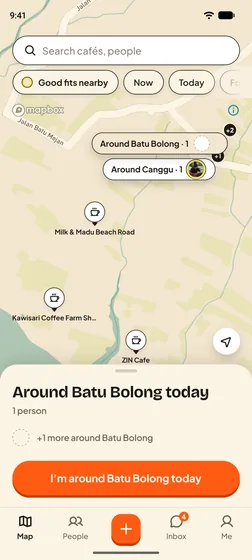
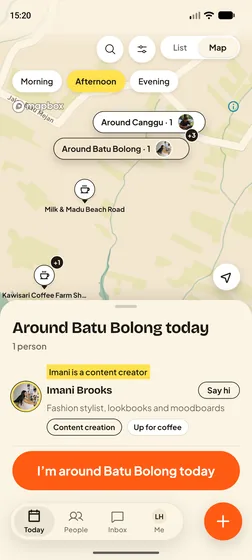
How it works and Our promise: the 1.6 pictures, asks and table-chat (the words file's section 7)
Shot again on 21 November 2026 from app main 5ec6e466 (app.kerja.site16) on the local stack, the same way
as Home's: profile-photo, profile-about, people, cafe-map, cafe-sheet, host-session, chat and privacy, and
two new ones, asks (chapter 2, beside people) and table-chat (chapter 4, beside host-session), each chapter's
pictures in the chapters' own .devices markup. Each alt says what its picture shows:
- profile-photo: Nico Albers on 44b's face chapter, with "Developer, 5 to 10 years" and "LinkedIn linked"
  (in 1.6 both lines are on the face chapter only: Q1561, with the auditor);
- profile-about: what Nico needs, can help with and is open to;
- people: For you, Freya, Imani and Amira, a reason each; asks: two sample asks this week;
- cafe-map: people around Canggu and Batu Bolong, Imani Brooks in the Around Batu Bolong today sheet;
- cafe-sheet: a made-up café (Kopi Pelan), "3 members love working here", no tables today, Work here;
- host-session: the work session / meeting / event choice (the last two with Plus) at the made-up café;
- table-chat: the made-up Pagi Room's 9:00 table, Kerja's welcome and a message from each seat;
- chat: Daria Novak, connected via Coffee, "Read 15:04" under the last message (Q1548);
- privacy: the Privacy settings (Our promise shows the same picture; its alt is unchanged).
No real café is named in page text or alts. Restamped.

diff --git a/id/how-it-works/index.html b/id/how-it-works/index.html
@@ -87,8 +87,8 @@
   <section class="chapter" id="profile" aria-labelledby="ch-1">
     <figure class="ch-shots shot">
       <div class="devices">
-        <div class="device"><img src="../../assets/screens/profile-photo-2x.webp?v=e806f21d" srcset="../../assets/screens/profile-photo-1x.webp?v=b22ab8c7 1x, ../../assets/screens/profile-photo-2x.webp?v=e806f21d 2x, ../../assets/screens/profile-photo-3x.webp?v=e0bb4342 3x" width="252" height="560" alt="Contoh layar: profil Nico Albers, dengan foto Nico, apa yang sedang Nico bangun, satu baris tentang apa yang Nico cari, “Around Canggu today” dan tombol “Connect”" fetchpriority="high"></div>
-        <div class="device"><img src="../../assets/screens/profile-about-2x.webp?v=13a6d7d0" srcset="../../assets/screens/profile-about-1x.webp?v=ee7d0f39 1x, ../../assets/screens/profile-about-2x.webp?v=13a6d7d0 2x, ../../assets/screens/profile-about-3x.webp?v=0bea0ef3 3x" width="252" height="560" alt="Contoh layar: profil Nico Albers, dengan apa yang Nico butuhkan, apa yang bisa Nico bantu, dan Nico terbuka untuk apa saja" loading="lazy" decoding="async"></div>
+        <div class="device"><img src="../../assets/screens/profile-photo-2x.webp?v=701722eb" srcset="../../assets/screens/profile-photo-1x.webp?v=27a34a1c 1x, ../../assets/screens/profile-photo-2x.webp?v=701722eb 2x, ../../assets/screens/profile-photo-3x.webp?v=63453ac5 3x" width="252" height="560" alt="Contoh layar: profil Nico Albers, dengan foto Nico, apa yang sedang Nico bangun, “Developer, 5 to 10 years”, “LinkedIn linked”, satu baris tentang apa yang Nico cari, “Around Canggu today” dan tombol “Message”" fetchpriority="high"></div>
+        <div class="device"><img src="../../assets/screens/profile-about-2x.webp?v=6af7f4ca" srcset="../../assets/screens/profile-about-1x.webp?v=0e0ba2a3 1x, ../../assets/screens/profile-about-2x.webp?v=6af7f4ca 2x, ../../assets/screens/profile-about-3x.webp?v=3b0393af 3x" width="252" height="560" alt="Contoh layar: profil Nico Albers, dengan apa yang Nico butuhkan, apa yang bisa Nico bantu, dan Nico terbuka untuk apa saja" loading="lazy" decoding="async"></div>
       </div>
       <figcaption class="caption">Contoh profil</figcaption>
     </figure>
@@ -117,7 +117,10 @@
 
   <section class="chapter flip" id="people" aria-labelledby="ch-2">
     <figure class="ch-shots shot">
-      <div class="device"><img src="../../assets/screens/people-2x.webp?v=551b95eb" srcset="../../assets/screens/people-1x.webp?v=4584395f 1x, ../../assets/screens/people-2x.webp?v=551b95eb 2x, ../../assets/screens/people-3x.webp?v=4a6dec12 3x" width="252" height="560" alt="Contoh layar: “People”, “For you”, dengan tiga orang untuk ditemui hari ini dan satu alasan untuk masing-masing" loading="lazy" decoding="async"></div>
+      <div class="devices">
+        <div class="device"><img src="../../assets/screens/people-2x.webp?v=dcc0b80d" srcset="../../assets/screens/people-1x.webp?v=3ad00156 1x, ../../assets/screens/people-2x.webp?v=dcc0b80d 2x, ../../assets/screens/people-3x.webp?v=ca9b4b12 3x" width="252" height="560" alt="Contoh layar: “People”, “For you”, dengan tiga orang untuk ditemui hari ini dan satu alasan untuk masing-masing" loading="lazy" decoding="async"></div>
+        <div class="device"><img src="../../assets/screens/asks-2x.webp?v=35acba32" srcset="../../assets/screens/asks-1x.webp?v=fe81c666 1x, ../../assets/screens/asks-2x.webp?v=35acba32 2x, ../../assets/screens/asks-3x.webp?v=1bd48cfd 3x" width="252" height="560" alt="Contoh layar: “People”, “Asks”, dengan dua contoh permintaan bantuan minggu ini, masing-masing dengan “Say hi”" loading="lazy" decoding="async"></div>
+      </div>
       <figcaption class="caption">Contoh profil</figcaption>
     </figure>
     <div class="ch-text">
@@ -141,8 +144,8 @@
   <section class="chapter" id="cafes" aria-labelledby="ch-3">
     <figure class="ch-shots shot">
       <div class="devices">
-        <div class="device"><img src="../../assets/screens/cafe-map-2x.webp?v=198c21d6" srcset="../../assets/screens/cafe-map-1x.webp?v=c7f9d540 1x, ../../assets/screens/cafe-map-2x.webp?v=198c21d6 2x, ../../assets/screens/cafe-map-3x.webp?v=0d9156fc 3x" width="252" height="560" alt="Contoh layar: peta Kerja dengan pin kafe, orang-orang di sekitar Batu Bolong dan Canggu hari ini, dan panel “Around Batu Bolong today”, tempat satu orang hanya tampil sebagai “+1 more”" loading="lazy" decoding="async"></div>
-        <div class="device"><img src="../../assets/screens/cafe-sheet-2x.webp?v=a88ccfa5" srcset="../../assets/screens/cafe-sheet-1x.webp?v=40f94023 1x, ../../assets/screens/cafe-sheet-2x.webp?v=a88ccfa5 2x, ../../assets/screens/cafe-sheet-3x.webp?v=ac915fa9 3x" width="252" height="560" alt="Contoh layar: panel sebuah kafe di peta, dengan areanya, jam buka hari ini, belum ada yang kerja di sana saat ini, dan “Work here”" loading="lazy" decoding="async"></div>
+        <div class="device"><img src="../../assets/screens/cafe-map-2x.webp?v=83c0ee00" srcset="../../assets/screens/cafe-map-1x.webp?v=dec8d713 1x, ../../assets/screens/cafe-map-2x.webp?v=83c0ee00 2x, ../../assets/screens/cafe-map-3x.webp?v=75810e61 3x" width="252" height="560" alt="Contoh layar: peta Kerja dengan pin kafe, orang-orang di sekitar Canggu dan Batu Bolong hari ini, dan Imani Brooks di panel “Around Batu Bolong today”" loading="lazy" decoding="async"></div>
+        <div class="device"><img src="../../assets/screens/cafe-sheet-2x.webp?v=e23124cb" srcset="../../assets/screens/cafe-sheet-1x.webp?v=6daa5b73 1x, ../../assets/screens/cafe-sheet-2x.webp?v=e23124cb 2x, ../../assets/screens/cafe-sheet-3x.webp?v=fe462ec2 3x" width="252" height="560" alt="Contoh layar: panel sebuah contoh kafe di peta, dengan areanya, buka 24 jam, “3 members love working here”, belum ada meja di sana hari ini, dan “Work here”" loading="lazy" decoding="async"></div>
       </div>
       <figcaption class="caption">Contoh profil dan sesi</figcaption>
     </figure>
@@ -167,7 +170,10 @@
 
   <section class="chapter flip" id="sessions" aria-labelledby="ch-4">
     <figure class="ch-shots shot">
-      <div class="device"><img src="../../assets/screens/host-session-2x.webp?v=1d77fb2d" srcset="../../assets/screens/host-session-1x.webp?v=9b39560d 1x, ../../assets/screens/host-session-2x.webp?v=1d77fb2d 2x, ../../assets/screens/host-session-3x.webp?v=9aad97fd 3x" width="252" height="560" alt="Contoh layar: “Host a session”, dengan kafe, waktu, lima jenis sesi, kursi, “What we’ll work on”, dan “Ask to join”" loading="lazy" decoding="async"></div>
+      <div class="devices">
+        <div class="device"><img src="../../assets/screens/host-session-2x.webp?v=bf17da41" srcset="../../assets/screens/host-session-1x.webp?v=b7ed650c 1x, ../../assets/screens/host-session-2x.webp?v=bf17da41 2x, ../../assets/screens/host-session-3x.webp?v=76cbc72e 3x" width="252" height="560" alt="Contoh layar: “Host a session”, dengan pilihan sesi kerja, meeting, atau event (dua terakhir dengan Plus), kafe, besok jam 9:00 sampai 12:00, dan jenis sesi" loading="lazy" decoding="async"></div>
+        <div class="device"><img src="../../assets/screens/table-chat-2x.webp?v=06979593" srcset="../../assets/screens/table-chat-1x.webp?v=1055cc0f 1x, ../../assets/screens/table-chat-2x.webp?v=06979593 2x, ../../assets/screens/table-chat-3x.webp?v=df4fe480 3x" width="252" height="560" alt="Contoh layar: chat meja untuk meja besok jam 9:00, dengan sambutan Kerja dan pesan dari host serta dari setiap orang yang punya kursi" loading="lazy" decoding="async"></div>
+      </div>
       <figcaption class="caption">Contoh profil dan sesi</figcaption>
     </figure>
     <div class="ch-text">
@@ -201,7 +207,7 @@
 
   <section class="chapter" id="connect" aria-labelledby="ch-5">
     <figure class="ch-shots shot">
-      <div class="device"><img src="../../assets/screens/chat-2x.webp?v=76d35758" srcset="../../assets/screens/chat-1x.webp?v=d226926c 1x, ../../assets/screens/chat-2x.webp?v=76d35758 2x, ../../assets/screens/chat-3x.webp?v=947a8604 3x" width="252" height="560" alt="Contoh layar: chat dengan Daria Novak, terhubung lewat “Coffee”, dengan “Sent” di bawah pesan terakhir" loading="lazy" decoding="async"></div>
+      <div class="device"><img src="../../assets/screens/chat-2x.webp?v=286a83e5" srcset="../../assets/screens/chat-1x.webp?v=54c2231f 1x, ../../assets/screens/chat-2x.webp?v=286a83e5 2x, ../../assets/screens/chat-3x.webp?v=f27fe62a 3x" width="252" height="560" alt="Contoh layar: chat dengan Daria Novak, terhubung lewat “Coffee”, dengan “Read 15:04” di bawah pesan terakhir" loading="lazy" decoding="async"></div>
       <figcaption class="caption">Contoh profil</figcaption>
     </figure>
     <div class="ch-text">
@@ -225,7 +231,7 @@
 
   <section class="chapter flip" id="control" aria-labelledby="ch-6">
     <figure class="ch-shots shot">
-      <div class="device"><img src="../../assets/screens/privacy-2x.webp?v=caf6b6ee" srcset="../../assets/screens/privacy-1x.webp?v=519ecbbf 1x, ../../assets/screens/privacy-2x.webp?v=caf6b6ee 2x, ../../assets/screens/privacy-3x.webp?v=fcdb4616 3x" width="252" height="560" alt="Contoh layar: pengaturan “Privacy”, dengan “Who can send me requests” dan “Show when I’ve read messages”" loading="lazy" decoding="async"></div>
+      <div class="device"><img src="../../assets/screens/privacy-2x.webp?v=24564bd9" srcset="../../assets/screens/privacy-1x.webp?v=1d8b58b0 1x, ../../assets/screens/privacy-2x.webp?v=24564bd9 2x, ../../assets/screens/privacy-3x.webp?v=55c18c21 3x" width="252" height="560" alt="Contoh layar: pengaturan “Privacy”, dengan “Who can send me requests” dan “Show when I’ve read messages”" loading="lazy" decoding="async"></div>
     </figure>
     <div class="ch-text">
       <p class="ch-label">Bab 6</p>

diff --git a/how-it-works/index.html b/how-it-works/index.html
@@ -87,8 +87,8 @@
   <section class="chapter" id="profile" aria-labelledby="ch-1">
     <figure class="ch-shots shot">
       <div class="devices">
-        <div class="device"><img src="../assets/screens/profile-photo-2x.webp?v=e806f21d" srcset="../assets/screens/profile-photo-1x.webp?v=b22ab8c7 1x, ../assets/screens/profile-photo-2x.webp?v=e806f21d 2x, ../assets/screens/profile-photo-3x.webp?v=e0bb4342 3x" width="252" height="560" alt="Sample screen: Nico Albers’s profile, with Nico’s photo, what Nico is building, a line on what Nico is looking for, Around Canggu today and a Connect button" fetchpriority="high"></div>
-        <div class="device"><img src="../assets/screens/profile-about-2x.webp?v=13a6d7d0" srcset="../assets/screens/profile-about-1x.webp?v=ee7d0f39 1x, ../assets/screens/profile-about-2x.webp?v=13a6d7d0 2x, ../assets/screens/profile-about-3x.webp?v=0bea0ef3 3x" width="252" height="560" alt="Sample screen: Nico Albers’s profile, with what Nico needs, what Nico can help with and what Nico is open to" loading="lazy" decoding="async"></div>
+        <div class="device"><img src="../assets/screens/profile-photo-2x.webp?v=701722eb" srcset="../assets/screens/profile-photo-1x.webp?v=27a34a1c 1x, ../assets/screens/profile-photo-2x.webp?v=701722eb 2x, ../assets/screens/profile-photo-3x.webp?v=63453ac5 3x" width="252" height="560" alt="Sample screen: Nico Albers’s profile, with Nico’s photo, what Nico is building, “Developer, 5 to 10 years”, “LinkedIn linked”, a line on what Nico is looking for, Around Canggu today and a Message button" fetchpriority="high"></div>
+        <div class="device"><img src="../assets/screens/profile-about-2x.webp?v=6af7f4ca" srcset="../assets/screens/profile-about-1x.webp?v=0e0ba2a3 1x, ../assets/screens/profile-about-2x.webp?v=6af7f4ca 2x, ../assets/screens/profile-about-3x.webp?v=3b0393af 3x" width="252" height="560" alt="Sample screen: Nico Albers’s profile, with what Nico needs, what Nico can help with and what Nico is open to" loading="lazy" decoding="async"></div>
       </div>
       <figcaption class="caption">Sample profiles</figcaption>
     </figure>
@@ -117,7 +117,10 @@
 
   <section class="chapter flip" id="people" aria-labelledby="ch-2">
     <figure class="ch-shots shot">
-      <div class="device"><img src="../assets/screens/people-2x.webp?v=551b95eb" srcset="../assets/screens/people-1x.webp?v=4584395f 1x, ../assets/screens/people-2x.webp?v=551b95eb 2x, ../assets/screens/people-3x.webp?v=4a6dec12 3x" width="252" height="560" alt="Sample screen: People, For you, with three people to meet today and a reason for each" loading="lazy" decoding="async"></div>
+      <div class="devices">
+        <div class="device"><img src="../assets/screens/people-2x.webp?v=dcc0b80d" srcset="../assets/screens/people-1x.webp?v=3ad00156 1x, ../assets/screens/people-2x.webp?v=dcc0b80d 2x, ../assets/screens/people-3x.webp?v=ca9b4b12 3x" width="252" height="560" alt="Sample screen: People, For you, with three people to meet today and a reason for each" loading="lazy" decoding="async"></div>
+        <div class="device"><img src="../assets/screens/asks-2x.webp?v=35acba32" srcset="../assets/screens/asks-1x.webp?v=fe81c666 1x, ../assets/screens/asks-2x.webp?v=35acba32 2x, ../assets/screens/asks-3x.webp?v=1bd48cfd 3x" width="252" height="560" alt="Sample screen: People, Asks, with two sample asks for this week, each with Say hi" loading="lazy" decoding="async"></div>
+      </div>
       <figcaption class="caption">Sample profiles</figcaption>
     </figure>
     <div class="ch-text">
@@ -141,8 +144,8 @@
   <section class="chapter" id="cafes" aria-labelledby="ch-3">
     <figure class="ch-shots shot">
       <div class="devices">
-        <div class="device"><img src="../assets/screens/cafe-map-2x.webp?v=198c21d6" srcset="../assets/screens/cafe-map-1x.webp?v=c7f9d540 1x, ../assets/screens/cafe-map-2x.webp?v=198c21d6 2x, ../assets/screens/cafe-map-3x.webp?v=0d9156fc 3x" width="252" height="560" alt="Sample screen: the Kerja map with café pins, people around Batu Bolong and Canggu today, and the Around Batu Bolong today sheet, where one person shows only as “+1 more”" loading="lazy" decoding="async"></div>
-        <div class="device"><img src="../assets/screens/cafe-sheet-2x.webp?v=a88ccfa5" srcset="../assets/screens/cafe-sheet-1x.webp?v=40f94023 1x, ../assets/screens/cafe-sheet-2x.webp?v=a88ccfa5 2x, ../assets/screens/cafe-sheet-3x.webp?v=ac915fa9 3x" width="252" height="560" alt="Sample screen: a café’s sheet on the map, with its area, today’s hours, nobody working there right now, and Work here" loading="lazy" decoding="async"></div>
+        <div class="device"><img src="../assets/screens/cafe-map-2x.webp?v=83c0ee00" srcset="../assets/screens/cafe-map-1x.webp?v=dec8d713 1x, ../assets/screens/cafe-map-2x.webp?v=83c0ee00 2x, ../assets/screens/cafe-map-3x.webp?v=75810e61 3x" width="252" height="560" alt="Sample screen: the Kerja map with café pins, people around Canggu and Batu Bolong today, and Imani Brooks in the Around Batu Bolong today sheet" loading="lazy" decoding="async"></div>
+        <div class="device"><img src="../assets/screens/cafe-sheet-2x.webp?v=e23124cb" srcset="../assets/screens/cafe-sheet-1x.webp?v=6daa5b73 1x, ../assets/screens/cafe-sheet-2x.webp?v=e23124cb 2x, ../assets/screens/cafe-sheet-3x.webp?v=fe462ec2 3x" width="252" height="560" alt="Sample screen: a sample café’s sheet on the map, with its area, open 24 hours, “3 members love working here”, no tables there today, and Work here" loading="lazy" decoding="async"></div>
       </div>
       <figcaption class="caption">Sample profiles and sessions</figcaption>
     </figure>
@@ -167,7 +170,10 @@
 
   <section class="chapter flip" id="sessions" aria-labelledby="ch-4">
     <figure class="ch-shots shot">
-      <div class="device"><img src="../assets/screens/host-session-2x.webp?v=1d77fb2d" srcset="../assets/screens/host-session-1x.webp?v=9b39560d 1x, ../assets/screens/host-session-2x.webp?v=1d77fb2d 2x, ../assets/screens/host-session-3x.webp?v=9aad97fd 3x" width="252" height="560" alt="Sample screen: Host a session, with the café, the time, the five session types, the seats, What we’ll work on and Ask to join" loading="lazy" decoding="async"></div>
+      <div class="devices">
+        <div class="device"><img src="../assets/screens/host-session-2x.webp?v=bf17da41" srcset="../assets/screens/host-session-1x.webp?v=b7ed650c 1x, ../assets/screens/host-session-2x.webp?v=bf17da41 2x, ../assets/screens/host-session-3x.webp?v=76cbc72e 3x" width="252" height="560" alt="Sample screen: Host a session, with the choice of a work session, a meeting or an event (the last two with Plus), the café, tomorrow from 9:00 to 12:00, and the session types" loading="lazy" decoding="async"></div>
+        <div class="device"><img src="../assets/screens/table-chat-2x.webp?v=06979593" srcset="../assets/screens/table-chat-1x.webp?v=1055cc0f 1x, ../assets/screens/table-chat-2x.webp?v=06979593 2x, ../assets/screens/table-chat-3x.webp?v=df4fe480 3x" width="252" height="560" alt="Sample screen: the table chat of tomorrow’s 9:00 table, with Kerja’s welcome and a message from the host and from each person with a seat" loading="lazy" decoding="async"></div>
+      </div>
       <figcaption class="caption">Sample profiles and sessions</figcaption>
     </figure>
     <div class="ch-text">
@@ -201,7 +207,7 @@
 
   <section class="chapter" id="connect" aria-labelledby="ch-5">
     <figure class="ch-shots shot">
-      <div class="device"><img src="../assets/screens/chat-2x.webp?v=76d35758" srcset="../assets/screens/chat-1x.webp?v=d226926c 1x, ../assets/screens/chat-2x.webp?v=76d35758 2x, ../assets/screens/chat-3x.webp?v=947a8604 3x" width="252" height="560" alt="Sample screen: a chat with Daria Novak, connected via Coffee, with Sent under the last message" loading="lazy" decoding="async"></div>
+      <div class="device"><img src="../assets/screens/chat-2x.webp?v=286a83e5" srcset="../assets/screens/chat-1x.webp?v=54c2231f 1x, ../assets/screens/chat-2x.webp?v=286a83e5 2x, ../assets/screens/chat-3x.webp?v=f27fe62a 3x" width="252" height="560" alt="Sample screen: a chat with Daria Novak, connected via Coffee, with “Read 15:04” under the last message" loading="lazy" decoding="async"></div>
       <figcaption class="caption">Sample profiles</figcaption>
     </figure>
     <div class="ch-text">
@@ -225,7 +231,7 @@
 
   <section class="chapter flip" id="control" aria-labelledby="ch-6">
     <figure class="ch-shots shot">
-      <div class="device"><img src="../assets/screens/privacy-2x.webp?v=caf6b6ee" srcset="../assets/screens/privacy-1x.webp?v=519ecbbf 1x, ../assets/screens/privacy-2x.webp?v=caf6b6ee 2x, ../assets/screens/privacy-3x.webp?v=fcdb4616 3x" width="252" height="560" alt="Sample screen: the Privacy settings, with who can send requests and read receipts" loading="lazy" decoding="async"></div>
+      <div class="device"><img src="../assets/screens/privacy-2x.webp?v=24564bd9" srcset="../assets/screens/privacy-1x.webp?v=1d8b58b0 1x, ../assets/screens/privacy-2x.webp?v=24564bd9 2x, ../assets/screens/privacy-3x.webp?v=55c18c21 3x" width="252" height="560" alt="Sample screen: the Privacy settings, with who can send requests and read receipts" loading="lazy" decoding="async"></div>
     </figure>
     <div class="ch-text">
       <p class="ch-label">Chapter 6</p>

diff --git a/id/promise/index.html b/id/promise/index.html
@@ -90,7 +90,7 @@
         </ul>
       </div>
       <figure class="pr-shot shot">
-        <div class="device"><img src="../../assets/screens/privacy-2x.webp?v=caf6b6ee" srcset="../../assets/screens/privacy-1x.webp?v=519ecbbf 1x, ../../assets/screens/privacy-2x.webp?v=caf6b6ee 2x, ../../assets/screens/privacy-3x.webp?v=fcdb4616 3x" width="252" height="560" alt="Contoh layar: pengaturan “Privacy” di Kerja, dengan “Who can send me requests”" loading="lazy" decoding="async"></div>
+        <div class="device"><img src="../../assets/screens/privacy-2x.webp?v=24564bd9" srcset="../../assets/screens/privacy-1x.webp?v=1d8b58b0 1x, ../../assets/screens/privacy-2x.webp?v=24564bd9 2x, ../../assets/screens/privacy-3x.webp?v=55c18c21 3x" width="252" height="560" alt="Contoh layar: pengaturan “Privacy” di Kerja, dengan “Who can send me requests”" loading="lazy" decoding="async"></div>
       </figure>
     </section>
 

diff --git a/promise/index.html b/promise/index.html
@@ -90,7 +90,7 @@
         </ul>
       </div>
       <figure class="pr-shot shot">
-        <div class="device"><img src="../assets/screens/privacy-2x.webp?v=caf6b6ee" srcset="../assets/screens/privacy-1x.webp?v=519ecbbf 1x, ../assets/screens/privacy-2x.webp?v=caf6b6ee 2x, ../assets/screens/privacy-3x.webp?v=fcdb4616 3x" width="252" height="560" alt="Sample screen: Kerja’s Privacy settings, with who can send you requests" loading="lazy" decoding="async"></div>
+        <div class="device"><img src="../assets/screens/privacy-2x.webp?v=24564bd9" srcset="../assets/screens/privacy-1x.webp?v=1d8b58b0 1x, ../assets/screens/privacy-2x.webp?v=24564bd9 2x, ../assets/screens/privacy-3x.webp?v=55c18c21 3x" width="252" height="560" alt="Sample screen: Kerja’s Privacy settings, with who can send you requests" loading="lazy" decoding="async"></div>
       </figure>
     </section>
 
